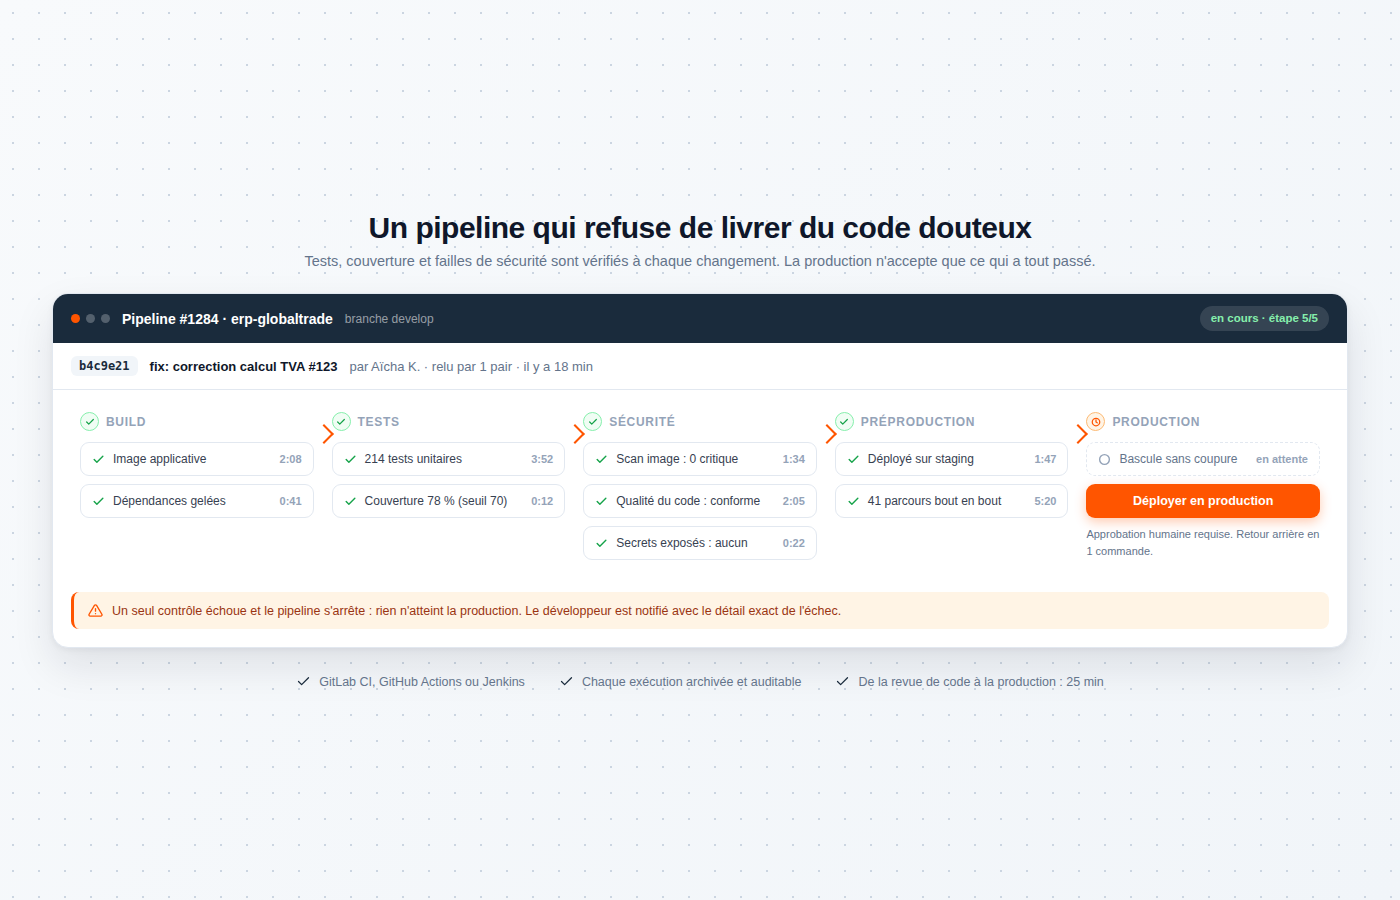
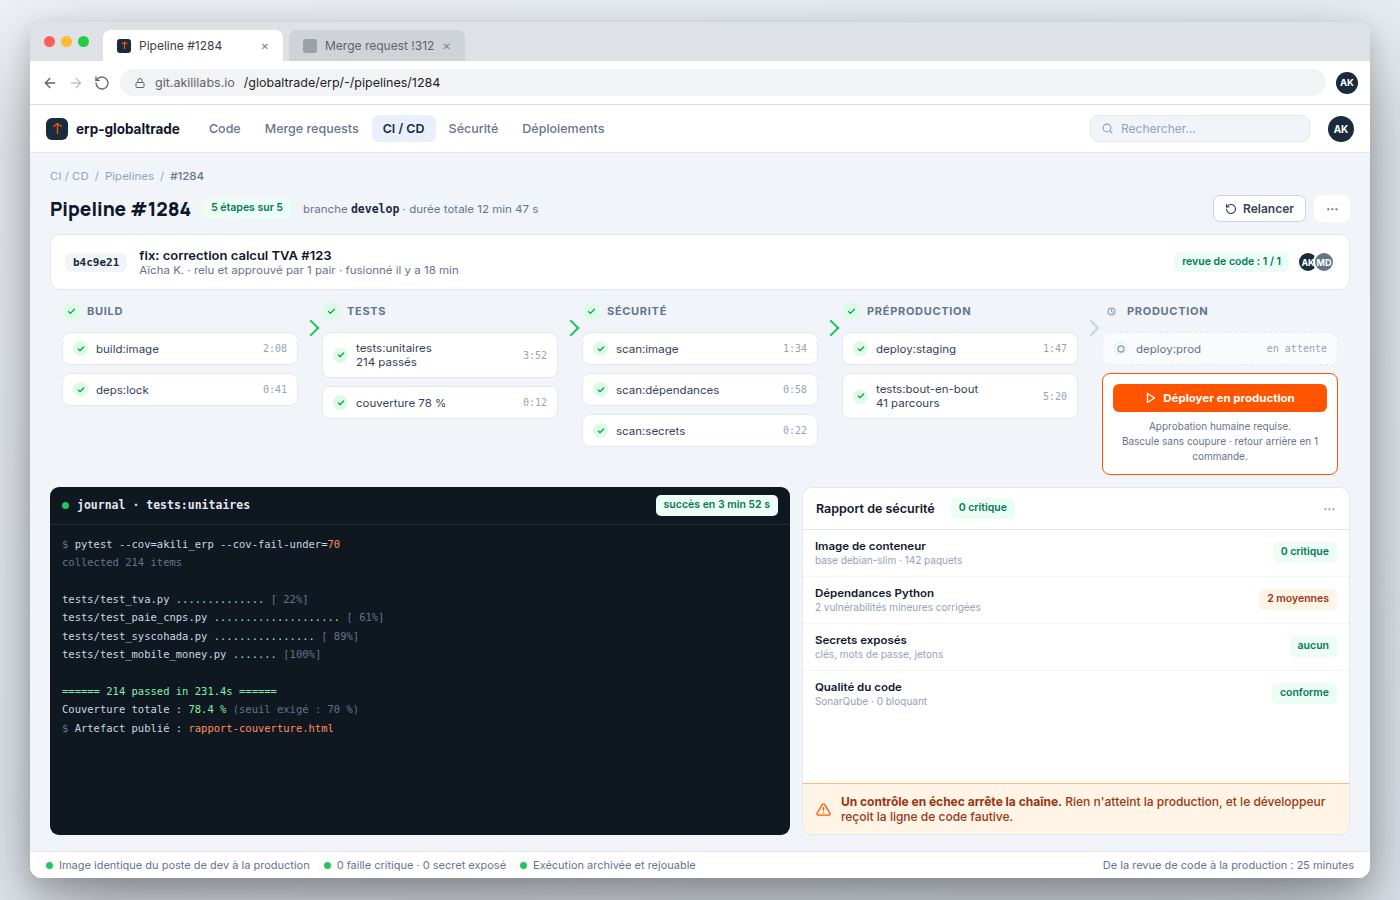
feat(devsecops): captures logiciel réalistes à la place des schémas
Les 3 visuels de la page DevSecOps passent de maquettes illustratives à
de vraies captures d'écran :
- constat : terminal où le déploiement manuel du vendredi soir échoue
  (permission refusée, module manquant, correctif posé en direct sur la
  prod) et fil d'incident, face au même changement livré par pipeline
- pipeline : écran CI/CD complet avec étapes, journal d'exécution des
  214 tests et rapport de sécurité
- supervision : tableau de bord de production avec pic d'erreurs 502
  résolu en 11 min, journaux centralisés et journal d'audit des
  déploiements

Textes alt mis à jour en conséquence.

diff --git a/src/components/devsecops/DsIntro.tsx b/src/components/devsecops/DsIntro.tsx
@@ -54,7 +54,7 @@ export default function DsIntro() {
           <FadeUp delay={0.2}>
             <Image
               src="/devsecops-images/ds-contexte.png"
-              alt="Du déploiement manuel au pipeline industrialisé : étapes éparses et enchevêtrées se résolvant en chaîne de livraison ordonnée et contrôlée"
+              alt="Avant-après : un terminal où le déploiement manuel du vendredi soir échoue (permission refusée, module Python manquant, correctif installé en direct sur la production) et un fil de discussion d’incident, face au même changement livré par un pipeline en cinq étapes vertes, sans coupure et réversible"
               width={1400}
               height={1000}
               loading="lazy"

diff --git a/src/components/devsecops/DsServices.tsx b/src/components/devsecops/DsServices.tsx
@@ -21,7 +21,7 @@ export default function DsServices() {
           <FadeUp>
             <Image
               src="/devsecops-images/ds-pipeline.png"
-              alt="Pipeline de livraison continue : étapes connectées de la modification au déploiement, avec contrôles automatisés et boucle de retour en cas d'échec"
+              alt="Écran d’un pipeline d’intégration continue : les étapes build, tests (214 passés, couverture 78 %), sécurité (image, dépendances, secrets), préproduction, puis un déploiement en production soumis à approbation humaine, avec le journal d’exécution et le rapport de sécurité"
               width={1400}
               height={900}
               loading="lazy"

diff --git a/src/components/devsecops/DsSecurite.tsx b/src/components/devsecops/DsSecurite.tsx
@@ -49,7 +49,7 @@ export default function DsSecurite() {
           <FadeUp delay={0.16}>
             <Image
               src="/devsecops-images/ds-observabilite.png"
-              alt="Poste d'observabilité : métriques, journaux centralisés et alerte mise en évidence sur un tableau de bord de supervision"
+              alt="Écran de supervision de production : disponibilité, latence et taux d’erreurs, pic d’erreurs 502 détecté à 09:41 puis résolu en 11 minutes, journaux centralisés horodatés et journal d’audit des déploiements indiquant qui a déployé quoi et quand"
               width={1400}
               height={900}
               loading="lazy"
